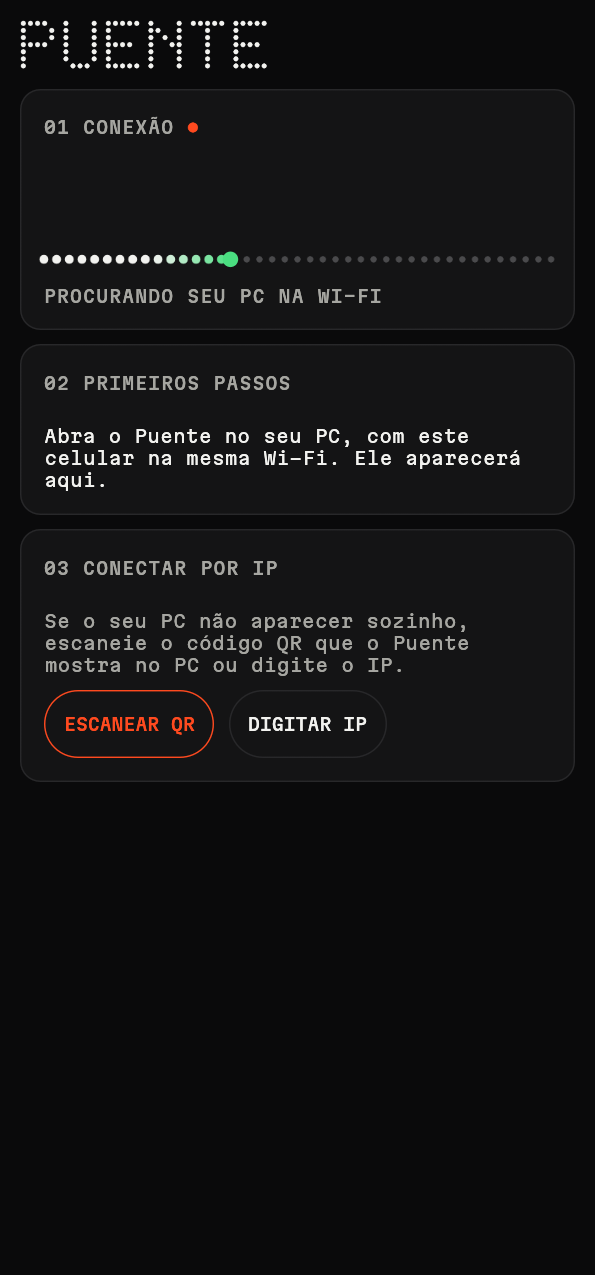
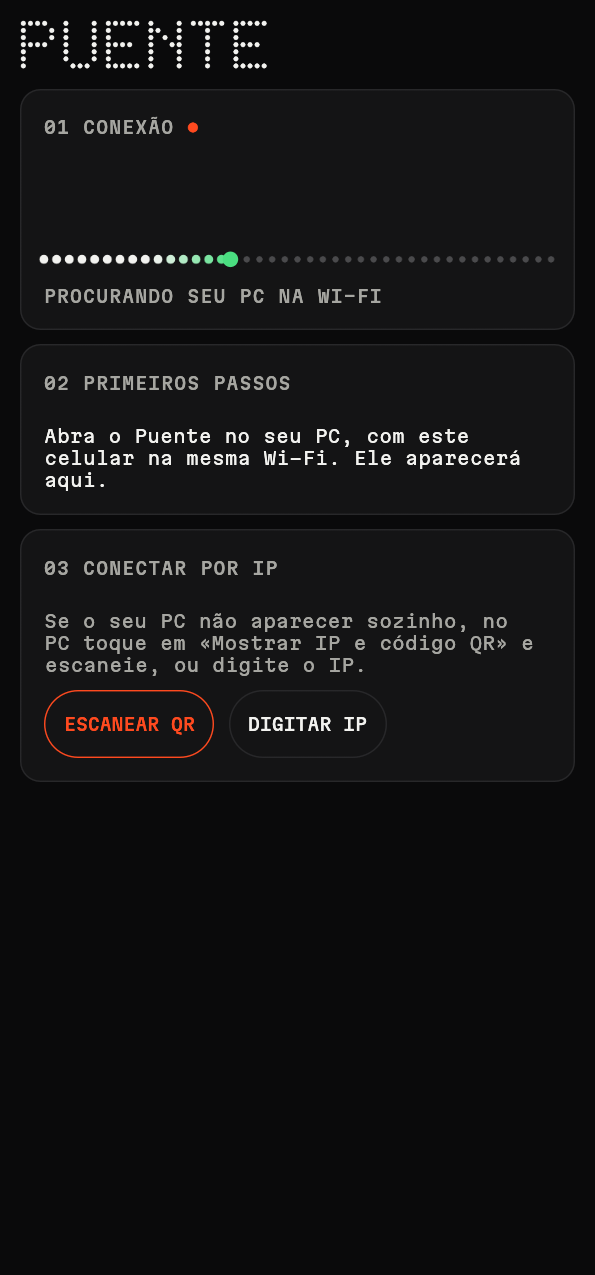
Oculta la IP y el código QR hasta que se pidan
La pantalla de espera puede estar compartida o a la vista de otros: la
dirección y su código solo aparecen al pulsar el botón, y se vuelven a ocultar
al conectar.

Claude-Session: https://claude.ai/code/session_01Ain5sZ4HJNgs2ZREMkYCGH

diff --git a/crates/puente-ui/src/desktop.rs b/crates/puente-ui/src/desktop.rs
@@ -73,6 +73,9 @@ pub struct DesktopState {
     unpair_until: Option<f32>,
     /// La versión del móvil cuyo aviso se cerró; con otra versión vuelve a salir.
     closed_version_notice: Option<String>,
+    /// La dirección y su código QR están a la vista. Ocultos por defecto: la pantalla
+    /// puede estar compartida o a la vista de otros.
+    address_shown: bool,
     link: LinkMotion,
     cards: CardMotion,
 }
@@ -292,17 +295,23 @@ pub fn draw(
     };
     let area = ui.max_rect().shrink(OUTER);
     match &view.status {
-        Status::Searching => draw_waiting(ui, area, &frame, None),
+        Status::Searching => draw_waiting(ui, area, &frame, None, &mut state.address_shown),
         Status::Connecting { name } => {
             let text = (t().connecting_to)(name);
-            draw_waiting(ui, area, &frame, Some(&text));
+            draw_waiting(ui, area, &frame, Some(&text), &mut state.address_shown);
         }
         Status::Pairing {
             name,
             code,
             answered,
-        } => draw_pairing(ui, area, &frame, name, code, *answered),
-        Status::Connected { name } => draw_connected(ui, area, &frame, texture, state, name),
+        } => {
+            state.address_shown = false;
+            draw_pairing(ui, area, &frame, name, code, *answered);
+        }
+        Status::Connected { name } => {
+            state.address_shown = false;
+            draw_connected(ui, area, &frame, texture, state, name);
+        }
     }
 }
 
@@ -317,17 +326,25 @@ fn draw_wordmark(ui: &mut egui::Ui) {
     dot_figure(ui, "PUENTE", "", 7.0, INK);
 }
 
-fn draw_waiting(ui: &mut egui::Ui, area: Rect, frame: &Frame, status: Option<&str>) {
+fn draw_waiting(ui: &mut egui::Ui, area: Rect, frame: &Frame, status: Option<&str>, address_shown: &mut bool) {
     const CONTENT_WIDTH: f32 = 460.0;
     const CONTENT_HEIGHT: f32 = 430.0;
     const CODE_SIZE: f32 = 148.0;
     const CODE_ROOM: f32 = CODE_SIZE + 44.0;
+    const REVEAL_HEIGHT: f32 = 32.0;
+    const REVEAL_ROOM: f32 = REVEAL_HEIGHT + 14.0;
 
     // Solo mientras se espera: conectando ya no hace falta decir dónde está la PC.
     let addresses: &[std::net::IpAddr] = if status.is_none() { &frame.view.local_ips } else { &[] };
-    let height = CONTENT_HEIGHT + if addresses.is_empty() { 0.0 } else { CODE_ROOM };
+    let shown = *address_shown && !addresses.is_empty();
+    let extra = match (addresses.is_empty(), shown) {
+        (true, _) => 0.0,
+        (false, false) => REVEAL_ROOM,
+        (false, true) => REVEAL_ROOM + CODE_ROOM,
+    };
+    let height = CONTENT_HEIGHT + extra;
     // Si la ventana es baja, el código es lo primero que sobra.
-    let show_code = !addresses.is_empty() && area.height() >= height;
+    let show_code = shown && area.height() >= height;
     let content = Rect::from_center_size(
         area.center(),
         vec2(CONTENT_WIDTH.min(area.width()), height.min(area.height())),
@@ -341,10 +358,17 @@ fn draw_waiting(ui: &mut egui::Ui, area: Rect, frame: &Frame, status: Option<&st
         ui.add_space(20.0);
 
         label(ui, status.unwrap_or(t().waiting_for_phone));
-        if !addresses.is_empty() {
+        if shown {
             let list: Vec<String> = addresses.iter().map(ToString::to_string).collect();
             ui.add_space(6.0);
             label(ui, &(t().this_pc_address)(&list.join(" · ")));
+        }
+        if !addresses.is_empty() {
+            let text = if shown { t().hide_address } else { t().show_address };
+            ui.add_space(8.0);
+            if pill(ui, text, REVEAL_HEIGHT, false).clicked() {
+                *address_shown = !shown;
+            }
         }
         if show_code {
             ui.add_space(14.0);

diff --git a/crates/puente-ui/src/i18n.rs b/crates/puente-ui/src/i18n.rs
@@ -160,6 +160,8 @@ pub struct Texts {
     // Conexión y emparejamiento.
     pub connecting_to: fn(&str) -> String,
     pub this_pc_address: fn(&str) -> String,
+    pub show_address: &'static str,
+    pub hide_address: &'static str,
     pub card_address: &'static str,
     pub address_help: &'static str,
     pub type_address: &'static str,
@@ -331,8 +333,10 @@ static SPANISH: Texts = Texts {
 
     connecting_to: |name| format!("Conectando con {name}"),
     this_pc_address: |ip| format!("IP de esta PC: {ip}"),
+    show_address: "Mostrar IP y código QR",
+    hide_address: "Ocultar",
     card_address: "Conectar por IP",
-    address_help: "Si tu PC no aparece sola, escanea el código QR que muestra Puente en la PC o escribe su IP.",
+    address_help: "Si tu PC no aparece sola, en la PC pulsa «Mostrar IP y código QR» y escanéalo, o escribe la IP.",
     type_address: "Escribir IP",
     scan_code: "Escanear QR",
     scan_from_phone: "Escanéalo desde Puente en el móvil",
@@ -492,8 +496,10 @@ static ENGLISH: Texts = Texts {
 
     connecting_to: |name| format!("Connecting to {name}"),
     this_pc_address: |ip| format!("This PC's IP: {ip}"),
+    show_address: "Show IP and QR code",
+    hide_address: "Hide",
     card_address: "Connect by IP",
-    address_help: "If your PC does not show up by itself, scan the QR code that Puente shows on the PC or type its IP.",
+    address_help: "If your PC does not show up by itself, press \"Show IP and QR code\" on the PC and scan it, or type the IP.",
     type_address: "Type IP",
     scan_code: "Scan QR",
     scan_from_phone: "Scan it from Puente on the phone",
@@ -653,8 +659,10 @@ static PORTUGUESE: Texts = Texts {
 
     connecting_to: |name| format!("Conectando a {name}"),
     this_pc_address: |ip| format!("IP deste PC: {ip}"),
+    show_address: "Mostrar IP e código QR",
+    hide_address: "Ocultar",
     card_address: "Conectar por IP",
-    address_help: "Se o seu PC não aparecer sozinho, escaneie o código QR que o Puente mostra no PC ou digite o IP.",
+    address_help: "Se o seu PC não aparecer sozinho, no PC toque em «Mostrar IP e código QR» e escaneie, ou digite o IP.",
     type_address: "Digitar IP",
     scan_code: "Escanear QR",
     scan_from_phone: "Escaneie pelo Puente no celular",

diff --git a/README.pt.md b/README.pt.md
@@ -121,7 +121,7 @@ A versão para Windows compila e passa nos testes automáticos, mas ainda não f
 |---|---|
 | **PC** | Linux. Testado no Hyprland com XWayland |
 | **Celular** | Android 10 ou superior, arm64. Testado em um Samsung Galaxy S23 Ultra |
-| **Rede** | Os dois na mesma rede local, com a porta 1714 TCP e UDP aberta no PC. Se o PC não aparecer sozinho (Wi-Fi de convidados, VPN, outra sub-rede), toque em «Escanear QR» no celular e aponte para o código que o Puente mostra no PC, ou em «Digitar IP» para digitá-lo |
+| **Rede** | Os dois na mesma rede local, com a porta 1714 TCP e UDP aberta no PC. Se o PC não aparecer sozinho (Wi-Fi de convidados, VPN, outra sub-rede), toque em «Escanear QR» no celular e aponte para o código que aparece no PC ao tocar em «Mostrar IP e código QR», ou em «Digitar IP» para digitá-lo |
 
 Se você usa `ufw`:
 

diff --git a/README.en.md b/README.en.md
@@ -121,7 +121,7 @@ The Windows version builds and passes the automated tests, but it has not been t
 |---|---|
 | **PC** | Linux. Tested on Hyprland with XWayland |
 | **Phone** | Android 10 or newer, arm64. Tested on a Samsung Galaxy S23 Ultra |
-| **Network** | Both on the same local network, with port 1714 TCP and UDP open on the PC. If the PC does not show up by itself (guest Wi-Fi, VPN, another subnet), tap "Scan QR" on the phone and point it at the code Puente shows on the PC, or "Type IP" to enter it by hand |
+| **Network** | Both on the same local network, with port 1714 TCP and UDP open on the PC. If the PC does not show up by itself (guest Wi-Fi, VPN, another subnet), tap "Scan QR" on the phone and point it at the code that appears on the PC after pressing "Show IP and QR code", or "Type IP" to enter it by hand |
 
 If you use `ufw`:
 

diff --git a/README.md b/README.md
@@ -121,7 +121,7 @@ La versión de Windows compila y pasa las pruebas automáticas, pero aún no se 
 |---|---|
 | **PC** | Linux. Probado en Hyprland con XWayland |
 | **Móvil** | Android 10 o superior, arm64. Probado en un Samsung Galaxy S23 Ultra |
-| **Red** | Los dos en la misma red local, con el puerto 1714 TCP y UDP abierto en la PC. Si la PC no aparece sola (Wi-Fi de invitados, VPN, otra subred), en el móvil toca «Escanear QR» y apunta al código que muestra Puente en la PC, o «Escribir IP» para teclearla |
+| **Red** | Los dos en la misma red local, con el puerto 1714 TCP y UDP abierto en la PC. Si la PC no aparece sola (Wi-Fi de invitados, VPN, otra subred), en el móvil toca «Escanear QR» y apunta al código que aparece en la PC al pulsar «Mostrar IP y código QR», o «Escribir IP» para teclearla |
 
 Si usas `ufw`:
 
